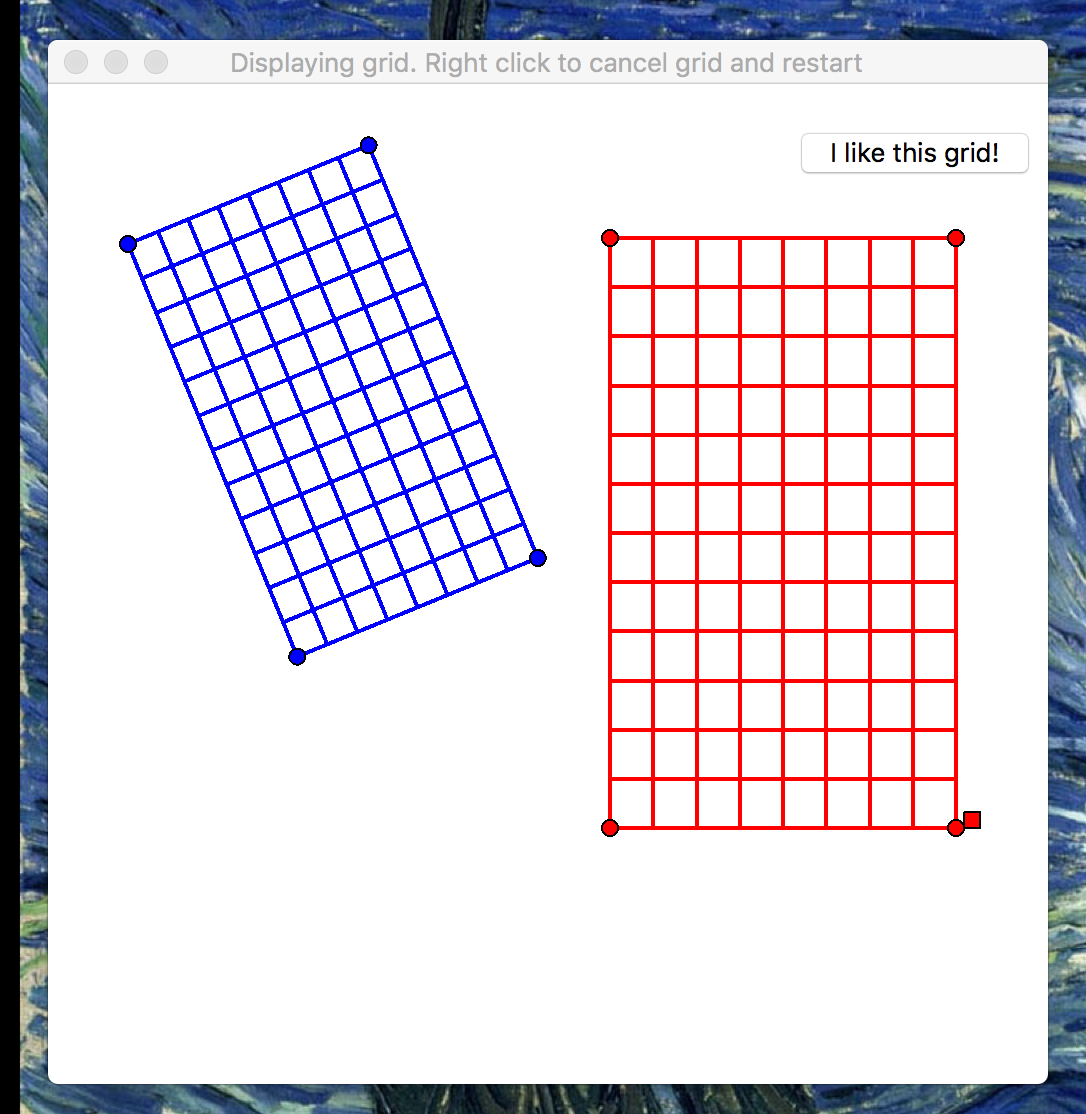
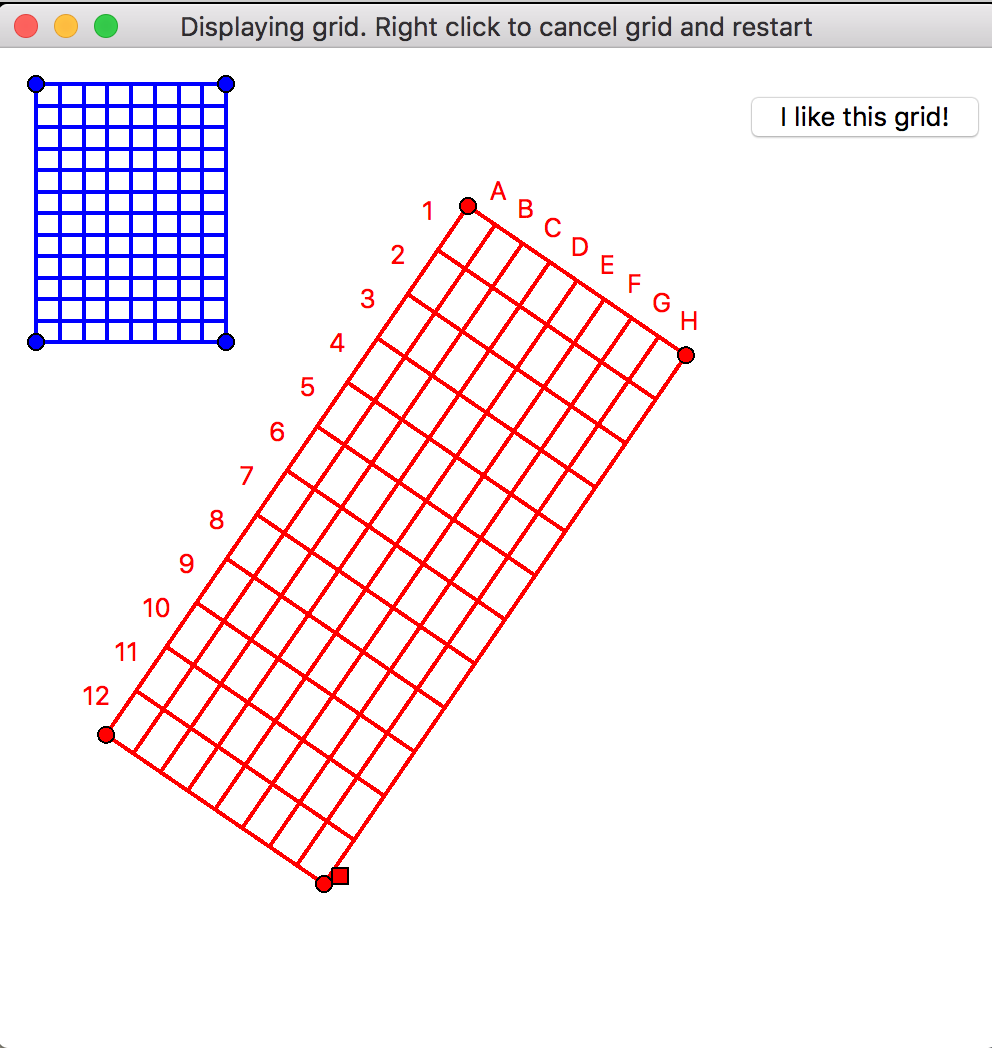
Project renamed to 'Adjustable grid'. Added PDFs w notation.

Changed region(s): [[0.0, 0.0, 1.0, 1.0]]

diff --git a/README.md b/README.md
@@ -1,4 +1,4 @@
-# Adjustable 12 x 8 grid
+# Adjustable grid
 
 The script provides a simple graphical interface which allows a user to draw 12 x 8 
 grids. Grids dynamically follow mouse cursor as being placed, can be 
